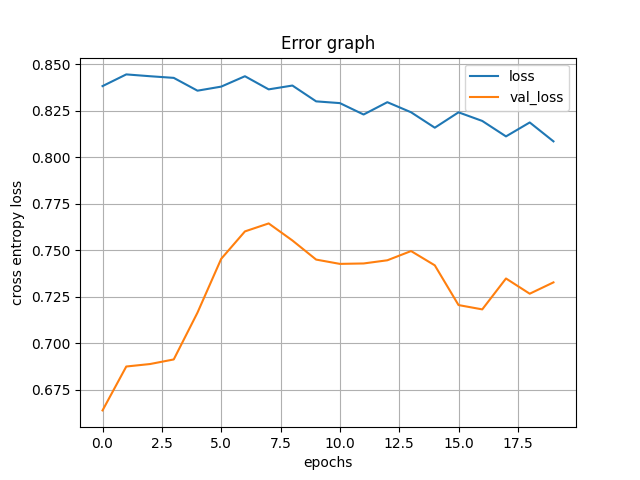
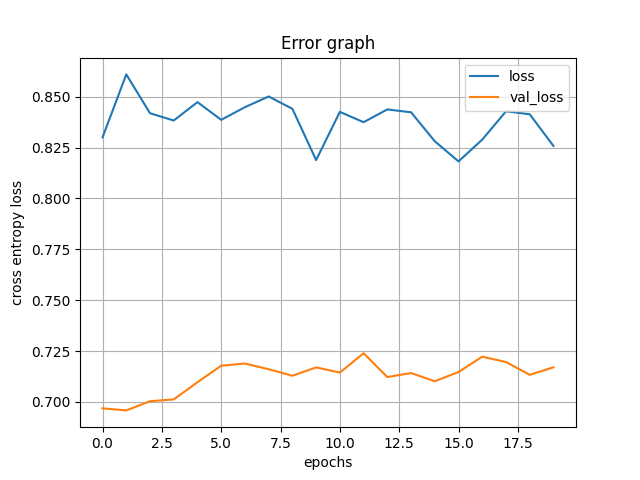
modif data class to play with thresold

diff --git a/models.py b/models.py
@@ -42,8 +42,10 @@ np.random.seed(1234)
 tf.random.set_seed(1234)
 
 #Initialization Data
-data = Data("BTC")
-data.load_data()
+data = Data("EOS")
+thresold_pump = 0.01
+model_type = 'Return'
+data.load_data(pump_thresold=thresold_pump)
 
 #print(data.df.corr())
 #================
@@ -52,8 +54,7 @@ data.load_data()
 
 features = data.df.iloc[:,3:-2].columns # select features for our model
 features = features.drop('date')
-thresold_pump = 0.05
-model_type = 'Return'
+
 
 #==============
 # Creating Data
@@ -102,7 +103,7 @@ X_scaled = scaler.fit_transform(X)
 
 
 y = data.df['pump_5'].values
-print(f'number return > 0.00: {np.sum(y==1)}')
+print(f'number return > {thresold_pump}: {np.sum(y==1)}')
 print(f'shape of y: {y.shape}')
 
 # plt.scatter(X.index,y)
@@ -122,7 +123,7 @@ X_train, X_test, y_train, y_test = X_scaled[:split],X_scaled[split:], y[:split],
 
 print("\n","=== Random Forest ===")
 # https://scikit-learn.org/stable/modules/generated/sklearn.ensemble.RandomForestClassifier.html
-randomForest = RandomForestClassifier(criterion='gini',n_estimators = 1000, random_state = 42).fit(X_train,y_train)
+randomForest = RandomForestClassifier(criterion='entropy',n_estimators = 1000, random_state = 42).fit(X_train,y_train)
 
 pscore_train = accuracy_score(y_test, randomForest.predict(X_test))
 print(f'Accruracy score: {pscore_train}')

diff --git a/data.py b/data.py
@@ -16,7 +16,7 @@ class Data:
         self.df = None
         self.crypto_name = crypto_name
 
-    def load_data(self):
+    def load_data(self,pump_thresold):
         try:
             self.df = pd.read_csv(f'./data/processed/{self.crypto_name}_finaldb.csv').dropna()
         except FileNotFoundError:
@@ -25,7 +25,7 @@ class Data:
         self.df['abs_diff_close_open'] = np.abs(self.df['Close'] - self.df['Open'])
         self.df['Close_std'] = (self.df['Close']-self.df['Close'].mean())/self.df['Close'].std()
         self.df['Close_ret_t+1'] = np.log(self.df[['Close']].shift(-1).values/self.df[['Close']].values)
-        self.df['pump_5'] = np.where(self.df['Close_ret_t+1'] > 0.02,1,0)
+        self.df['pump_5'] = np.where(self.df['Close_ret_t+1'] > pump_thresold,1,0)
 
     def create_RNN_data(self,LAG=10,reg="Price",columns=["Volume","tweet_count","vix"],pump_thresold=0.05):
         
